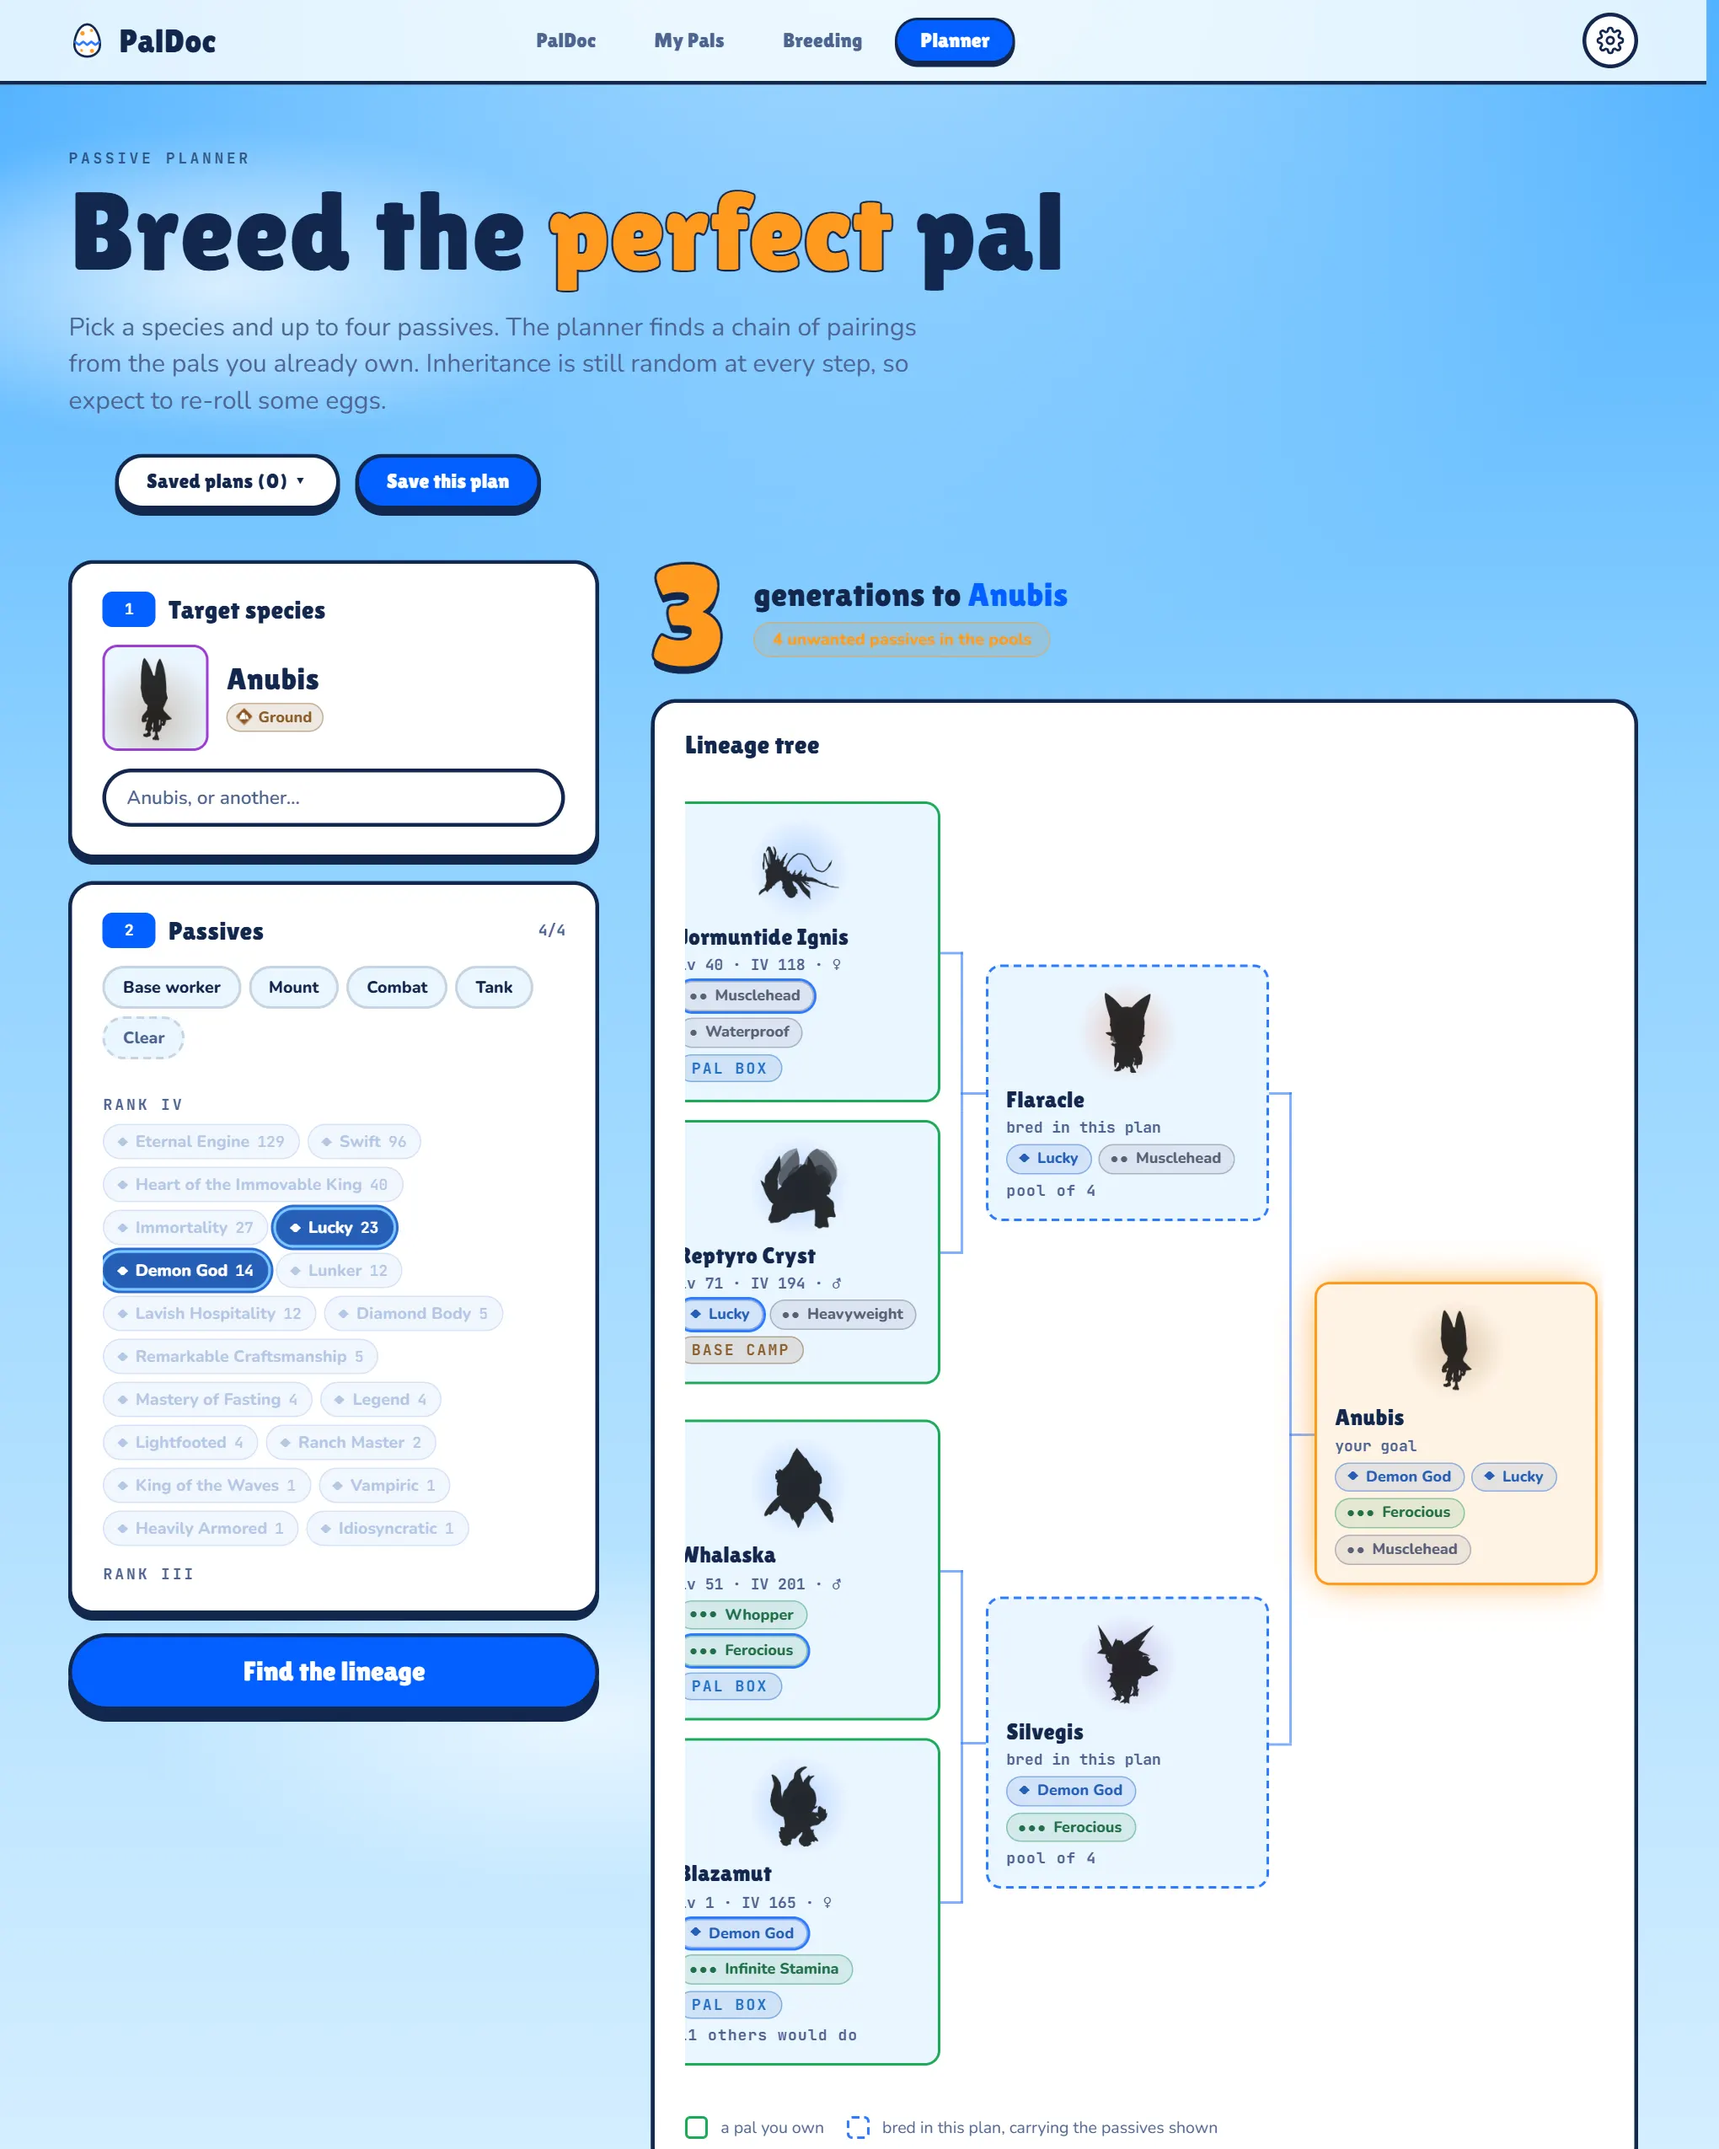
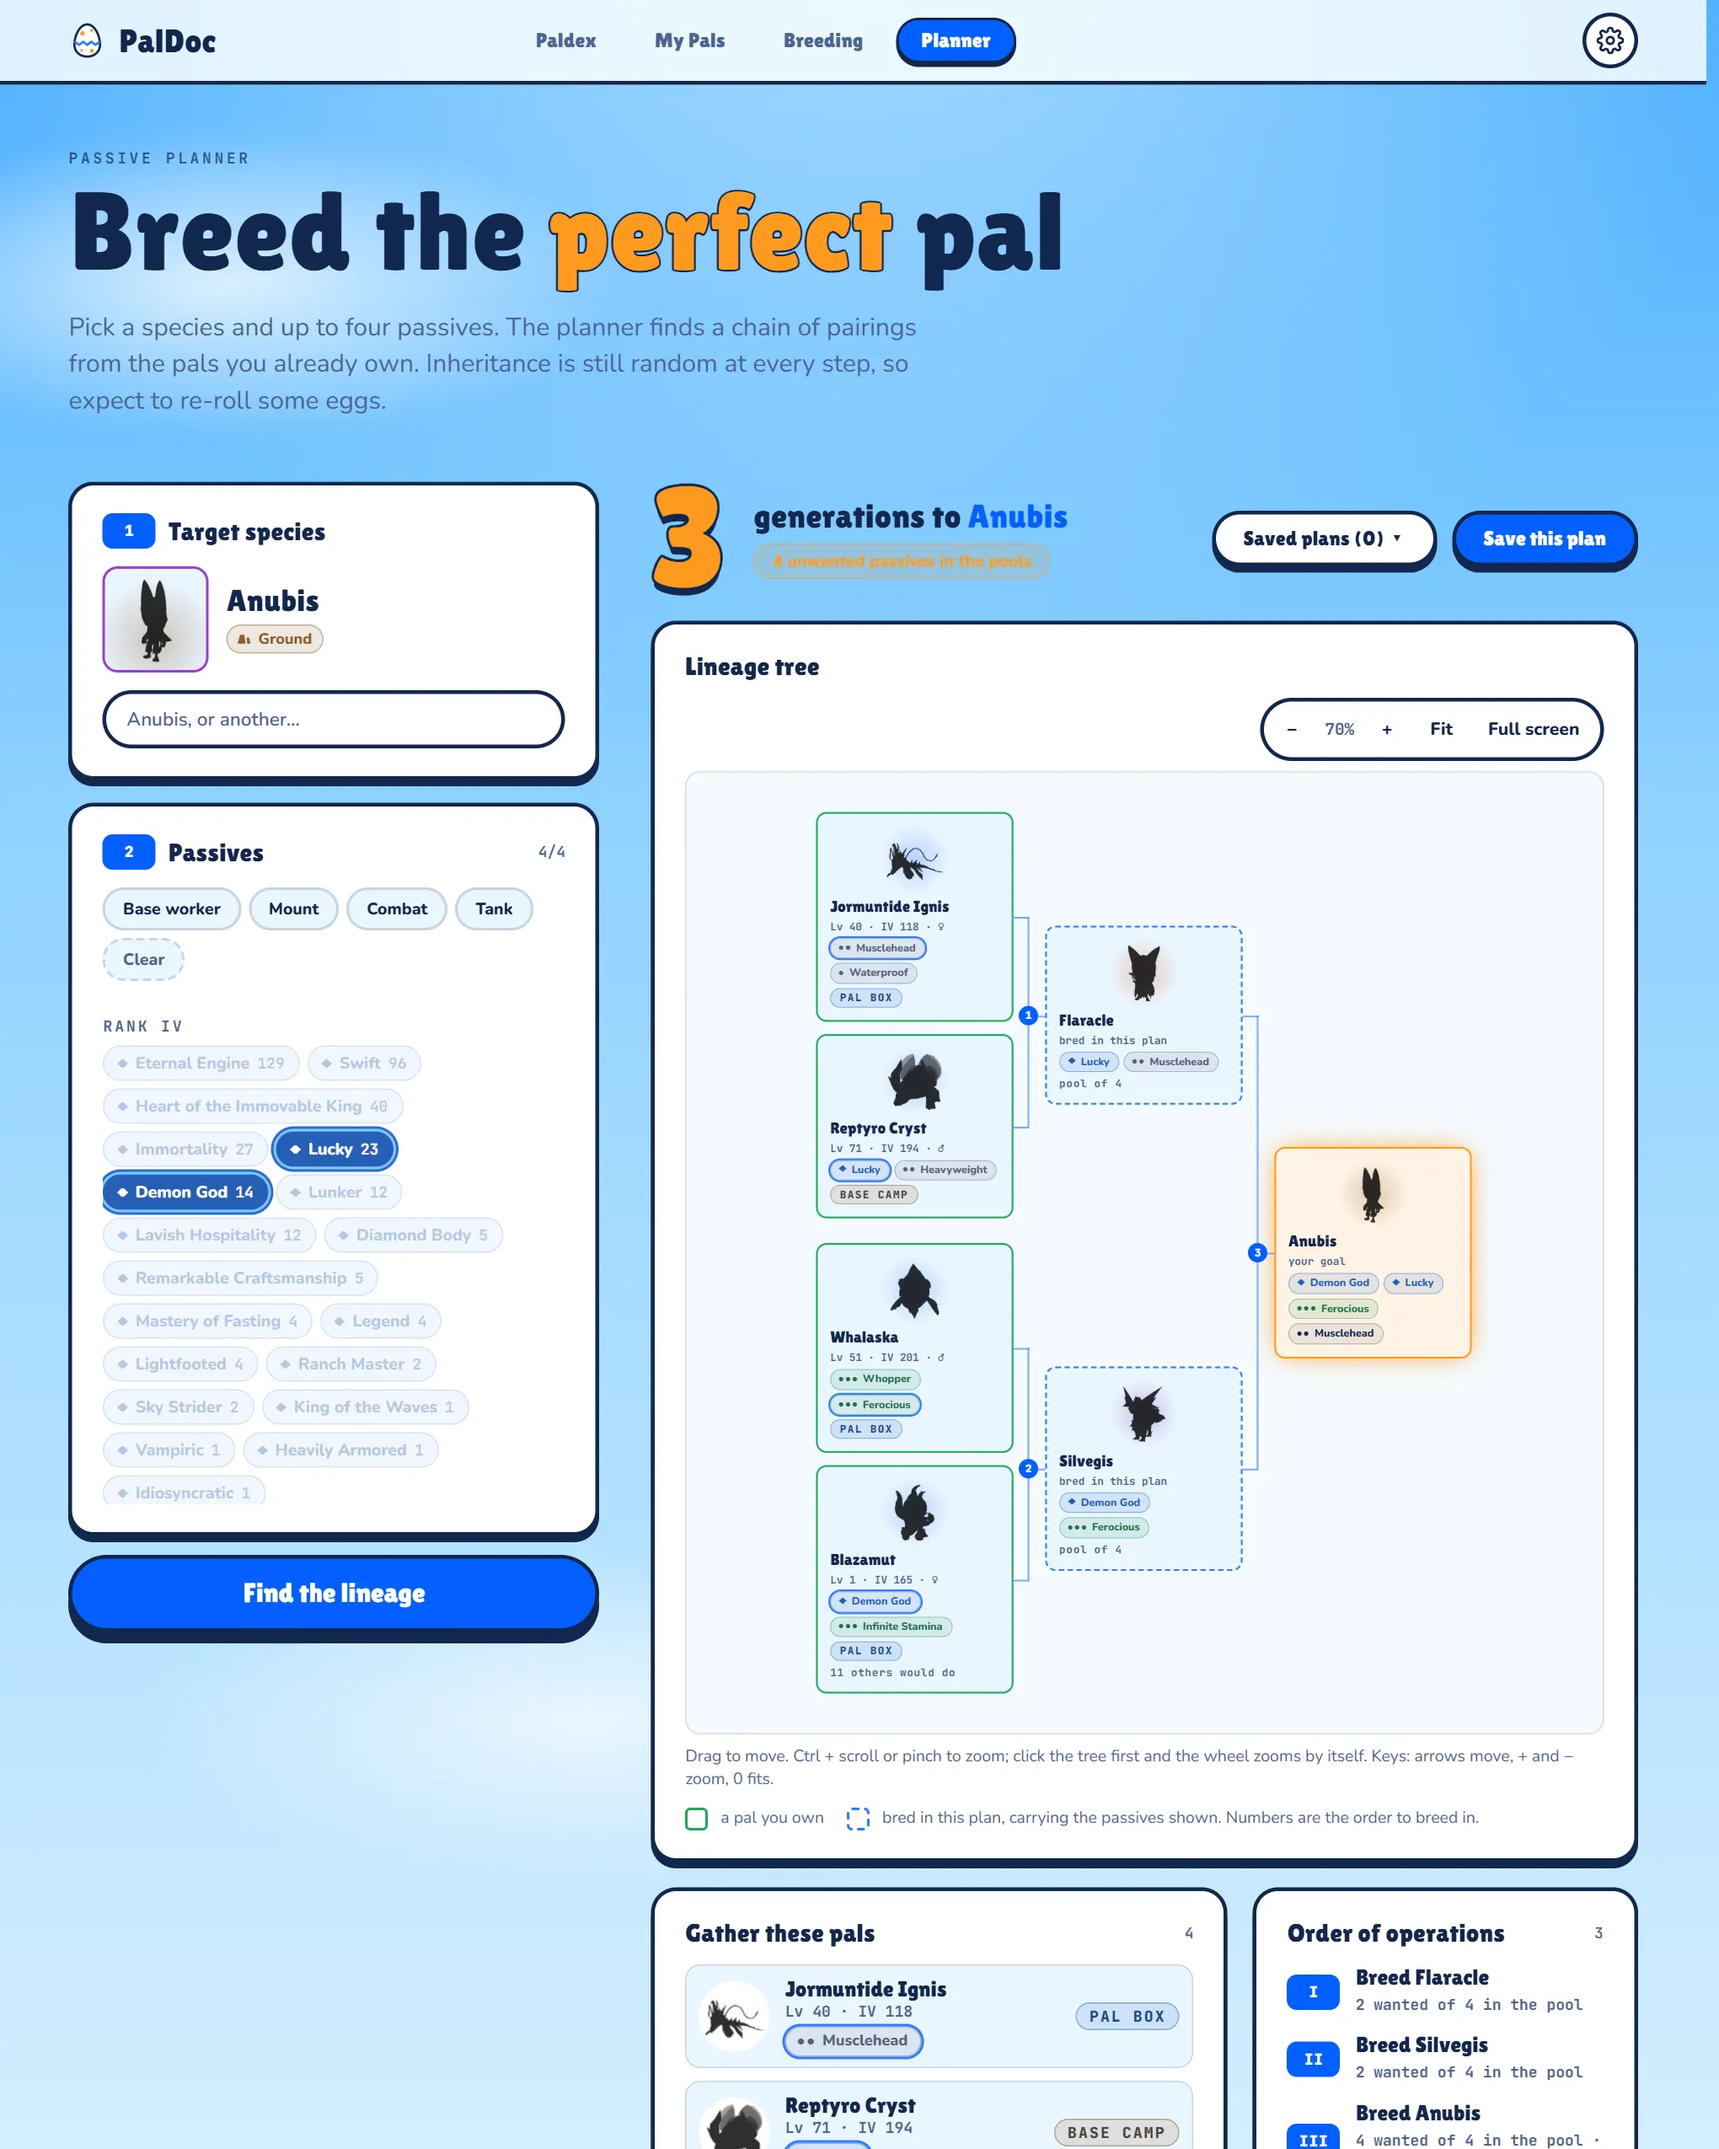
Put the themes on the landing page, call the first tab Paldex, and add a report link
The landing page gets the four-theme picker (the same stored choice as Settings; until a pick it follows the system). The app's first tab is the Paldex, the site stays PalDoc. Both footers link to GitHub issues for problems. The served passives no longer carry the 'source' note naming the sites they were checked against: the owner's rule is that the site names no data source, and the README keeps the credits. The page's scroller is out of Firefox's Tab order. The eight tour screenshots are re-taken with the new tab, icons and pages.

Changed region(s): [[0.0309, 0.1859, 0.9574, 1.0]]

diff --git a/src/routes/home/Landing.tsx b/src/routes/home/Landing.tsx
@@ -1,6 +1,6 @@
 import { useEffect, useState } from 'react';
 
-import type { Skin } from '../showcase/skins.ts';
+import { SKINS, type Skin } from '../showcase/skins.ts';
 import { PalEgg } from '../showcase/parts.tsx';
 import { Tour } from './Tour.tsx';
 import { UploadDialog } from './UploadDialog.tsx';
@@ -30,7 +30,7 @@ function usePhone(): boolean {
   return phone;
 }
 
-export function Landing({ skin, onChoose, onBrowse }: { skin: Skin; onChoose: () => void; onBrowse: () => void }) {
+export function Landing({ skin, onSkin, onChoose, onBrowse }: { skin: Skin; onSkin: (s: Skin) => void; onChoose: () => void; onBrowse: () => void }) {
   const [asking, setAsking] = useState(false);
   const open = () => setAsking(true);
   const dark = skin === 'obsidian' || skin === 'feybreak';
@@ -64,6 +64,7 @@ export function Landing({ skin, onChoose, onBrowse }: { skin: Skin; onChoose: ()
               <PalEgg size={36} />
               PalDoc
             </span>
+            <ThemePicker skin={skin} onSkin={onSkin} />
           </header>
           <div className="home-hero-body">
             <p className="home-mono">For Palworld 1.0 · Steam, Xbox in beta</p>
@@ -103,11 +104,33 @@ export function Landing({ skin, onChoose, onBrowse }: { skin: Skin; onChoose: ()
       <footer className="home-foot">
         Unofficial fan project. Palworld and its characters, names and artwork are © Pocketpair, Inc.; not affiliated with or endorsed
         by Pocketpair. Typefaces are served from this site under the{' '}
-        <a href={`${import.meta.env.BASE_URL}font-licenses.txt`}>SIL Open Font License</a>.
+        <a href={`${import.meta.env.BASE_URL}font-licenses.txt`}>SIL Open Font License</a>. Found a problem?{' '}
+        <a href="https://github.com/sasank0501/palworld-breeding-index/issues">Report it on GitHub</a>.
       </footer>
 
       <UploadDialog open={asking} onClose={() => setAsking(false)} onChoose={onChoose} />
     </div>
+  );
+}
+
+/**
+ * The four themes, on the first screen: until one is picked the page follows the system's light or
+ * dark setting, and a pick sticks (the same stored choice as the settings panel inside the app).
+ * Radios in a group, so the arrow keys move between them; names show beside the swatches on wide
+ * screens and are spoken always.
+ */
+function ThemePicker({ skin, onSkin }: { skin: Skin; onSkin: (s: Skin) => void }) {
+  return (
+    <fieldset className="home-themes">
+      <legend className="sr-only">Theme</legend>
+      {SKINS.map((s) => (
+        <label key={s.id} className={skin === s.id ? 'on' : ''} title={s.blurb}>
+          <input type="radio" name="home-theme" value={s.id} checked={skin === s.id} onChange={() => onSkin(s.id)} />
+          <span className="sw" aria-hidden="true" style={{ '--a': s.swatch[0], '--b': s.swatch[1], '--c': s.swatch[2] } as React.CSSProperties} />
+          <span className="nm">{s.name}</span>
+        </label>
+      ))}
+    </fieldset>
   );
 }
 

diff --git a/src/design/home.css b/src/design/home.css
@@ -23,7 +23,18 @@
 
 /* ---- hero: the whole first screen ---- */
 .home-hero { min-height: 100vh; min-height: 100svh; display: grid; grid-template-rows: auto 1fr auto; }
-.home-bar { padding: 22px clamp(16px, 2.4vw, 40px); }
+.home-bar { display: flex; flex-wrap: wrap; align-items: center; justify-content: space-between; gap: 12px 20px; padding: 22px clamp(16px, 2.4vw, 40px); }
+.home-themes { display: flex; flex-wrap: wrap; gap: 6px; margin: 0; padding: 0; border: 0; }
+.home-themes label { display: flex; align-items: center; gap: 8px; min-height: 44px; min-width: 44px; box-sizing: border-box; padding: 6px 12px 6px 8px; border: 2px solid var(--hair); border-radius: 999px; background: var(--panel); color: var(--ink); font-weight: 800; font-size: 14px; cursor: pointer; }
+.home-themes label.on { border: 3px solid var(--ink); padding: 5px 11px 5px 7px; }
+.home-themes label:focus-within { outline: 3px solid var(--accent-2); outline-offset: 2px; }
+.home-themes input { position: absolute; opacity: 0; width: 1px; height: 1px; }
+.home-themes .sw { flex: none; width: 26px; height: 26px; border-radius: 50%; border: 2px solid var(--ink); background: conic-gradient(from 200deg, var(--c) 0 34%, var(--b) 34% 66%, var(--a) 66%); }
+@media (max-width: 640px) {
+  .home-themes label { padding: 6px; justify-content: center; }
+  .home-themes label.on { padding: 5px; }
+  .home-themes .nm { position: absolute; width: 1px; height: 1px; overflow: hidden; clip-path: inset(50%); white-space: nowrap; }
+}
 .home-brand { display: inline-flex; align-items: center; gap: 12px; font: var(--d-weight) 30px/1 var(--font-display); letter-spacing: var(--d-track); color: var(--ink); }
 .home-hero-body { display: grid; align-content: center; justify-items: center; gap: clamp(16px, 2.4vh, 28px); padding: 16px 20px 24px; text-align: center; }
 .home h1 {

diff --git a/src/routes/showcase/HiddenPals.tsx b/src/routes/showcase/HiddenPals.tsx
@@ -7,7 +7,7 @@ import type { Ctx } from './ctx.ts';
 import '../../design/userdata.css';
 
 /**
- * Every pal hidden from the PalDoc spotlight ("Hide" there), opened from the
+ * Every pal hidden from the Paldex spotlight ("Hide" there), opened from the
  * settings panel's "See hidden pals". A page of its own on the Showcase stack
  * (like Saved plans), so the settings panel stays short however many are hidden.
  * Back or Esc returns to where you were.
@@ -36,10 +36,10 @@ export function HiddenPals({ ctx, onPal }: { ctx: Ctx; onPal: (p: RosterPal) => 
           </button>
         )}
       </div>
-      <p className="sc-sethint">Hiding only takes a pal out of the PalDoc spotlight. It stays in your save and everywhere else in the app.</p>
+      <p className="sc-sethint">Hiding only takes a pal out of the Paldex spotlight. It stays in your save and everywhere else in the app.</p>
 
       {hidden.length === 0 ? (
-        <p className="sc-empty">No pals are hidden. “Hide” on the PalDoc spotlight takes one out of it.</p>
+        <p className="sc-empty">No pals are hidden. “Hide” on the Paldex spotlight takes one out of it.</p>
       ) : (
         <ul className="sc-plans-list sc-hidden-list">
           {hidden.map((h) => {

diff --git a/vite.config.ts b/vite.config.ts
@@ -137,8 +137,26 @@ function chibiReviewStore(root: string): Plugin {
   };
 }
 
+/**
+ * src/data/passives.json records where each entry was checked ("source": a site's name). That is
+ * a note for whoever maintains the data, credited in the README; the site itself names no data
+ * source (owner's decision, 2026-10-13), so the field is dropped from what is served.
+ */
+function stripDataSources(): Plugin {
+  return {
+    name: 'strip-data-sources',
+    enforce: 'pre',
+    transform(code, id) {
+      if (!id.replace(/\\/g, '/').split('?')[0].endsWith('/src/data/passives.json')) return null;
+      const data = JSON.parse(code) as Record<string, { source?: string }>;
+      for (const entry of Object.values(data)) delete entry.source;
+      return { code: JSON.stringify(data), map: null };
+    },
+  };
+}
+
 export default defineConfig(({ mode }) => ({
-  plugins: [react(), copyPublic(mode === 'resume'), chibiReviewStore(process.cwd())],
+  plugins: [stripDataSources(), react(), copyPublic(mode === 'resume'), chibiReviewStore(process.cwd())],
   // The save-import worker loads the Oodle decoder (ooz-wasm) with a dynamic
   // import, which the default classic-script worker bundle cannot do.
   worker: { format: 'es' },

diff --git a/src/routes/showcase/Settings.tsx b/src/routes/showcase/Settings.tsx
@@ -55,7 +55,7 @@ export function Settings({
   skin: Skin;
   onSkin: (s: Skin) => void;
   onOpenSave?: () => void;
-  /** How many pals are hidden from the PalDoc spotlight; the list is its own page. */
+  /** How many pals are hidden from the Paldex spotlight; the list is its own page. */
   spotlightHidden?: number;
   onSeeHidden?: () => void;
   /** Browse mode (no save): themes, and the way to upload one. Art, spotlight and backups are about a save. */
@@ -222,7 +222,7 @@ export function Settings({
             <h2>Spotlight</h2>
             <p className="sc-sethint">
               {spotlightHidden === 0
-                ? 'Every pal can appear in the PalDoc spotlight. “Hide” there takes a pal out of it.'
+                ? 'Every pal can appear in the Paldex spotlight. “Hide” there takes a pal out of it.'
                 : `${spotlightHidden} ${spotlightHidden === 1 ? 'pal' : 'pals'} hidden from the spotlight.`}
             </p>
             {spotlightHidden > 0 && onSeeHidden && (

diff --git a/src/routes/Showcase.tsx b/src/routes/Showcase.tsx
@@ -33,7 +33,7 @@ import '../design/showcase-views.css';
  */
 type Section = 'dex' | 'box' | 'breeding' | 'planner';
 const SECTIONS: Array<[Section, string]> = [
-  ['dex', 'PalDoc'],
+  ['dex', 'Paldex'],
   ['box', 'My Pals'],
   ['breeding', 'Breeding'],
   ['planner', 'Planner'],
@@ -195,7 +195,9 @@ export default function Showcase({
         <i />
       </div>
 
-      <div className="sc-page" ref={page}>
+      {/* tabIndex -1: Firefox makes a scrolling box a Tab stop, and this one is the whole page.
+          The keyboard still scrolls it from whatever inside it has focus. */}
+      <div className="sc-page" ref={page} tabIndex={-1}>
         {/* Skips the top bar. It moves focus itself: the URL's hash belongs to the app (#chibi). */}
         <a
           className="sc-skip"

diff --git a/src/routes/Import.tsx b/src/routes/Import.tsx
@@ -50,7 +50,7 @@ export default function Import({
   /** Open the Paldex with no save (lib/browse.ts). */
   onBrowse: () => void;
 }) {
-  const [skin] = useSkin();
+  const [skin, setSkin] = useSkin();
   const [stage, setStage] = useState<Stage>({ kind: 'intro' });
   const worker = useRef<Worker | null>(null);
   const focusTarget = useRef<HTMLHeadingElement>(null);
@@ -99,7 +99,7 @@ export default function Import({
     send({ type: 'scan', files });
   };
 
-  if (stage.kind === 'intro') return <Landing skin={skin} onChoose={choose} onBrowse={onBrowse} />;
+  if (stage.kind === 'intro') return <Landing skin={skin} onSkin={setSkin} onChoose={choose} onBrowse={onBrowse} />;
 
   return (
     <div className="sc-shell imp-shell" data-skin={skin}>

diff --git a/src/App.tsx b/src/App.tsx
@@ -131,6 +131,15 @@ export default function App() {
         SIL Open Font License
       </a>
       .
+      {import.meta.env.MODE !== 'resume' && (
+        <>
+          {' Found a problem? '}
+          <a className="legal-link" href="https://github.com/sasank0501/palworld-breeding-index/issues">
+            Report it on GitHub
+          </a>
+          .
+        </>
+      )}
       {/* Only the portfolio build ships game art (vite.config.ts), so only it says where the art came from. */}
       {import.meta.env.MODE === 'resume' && (
         <>
